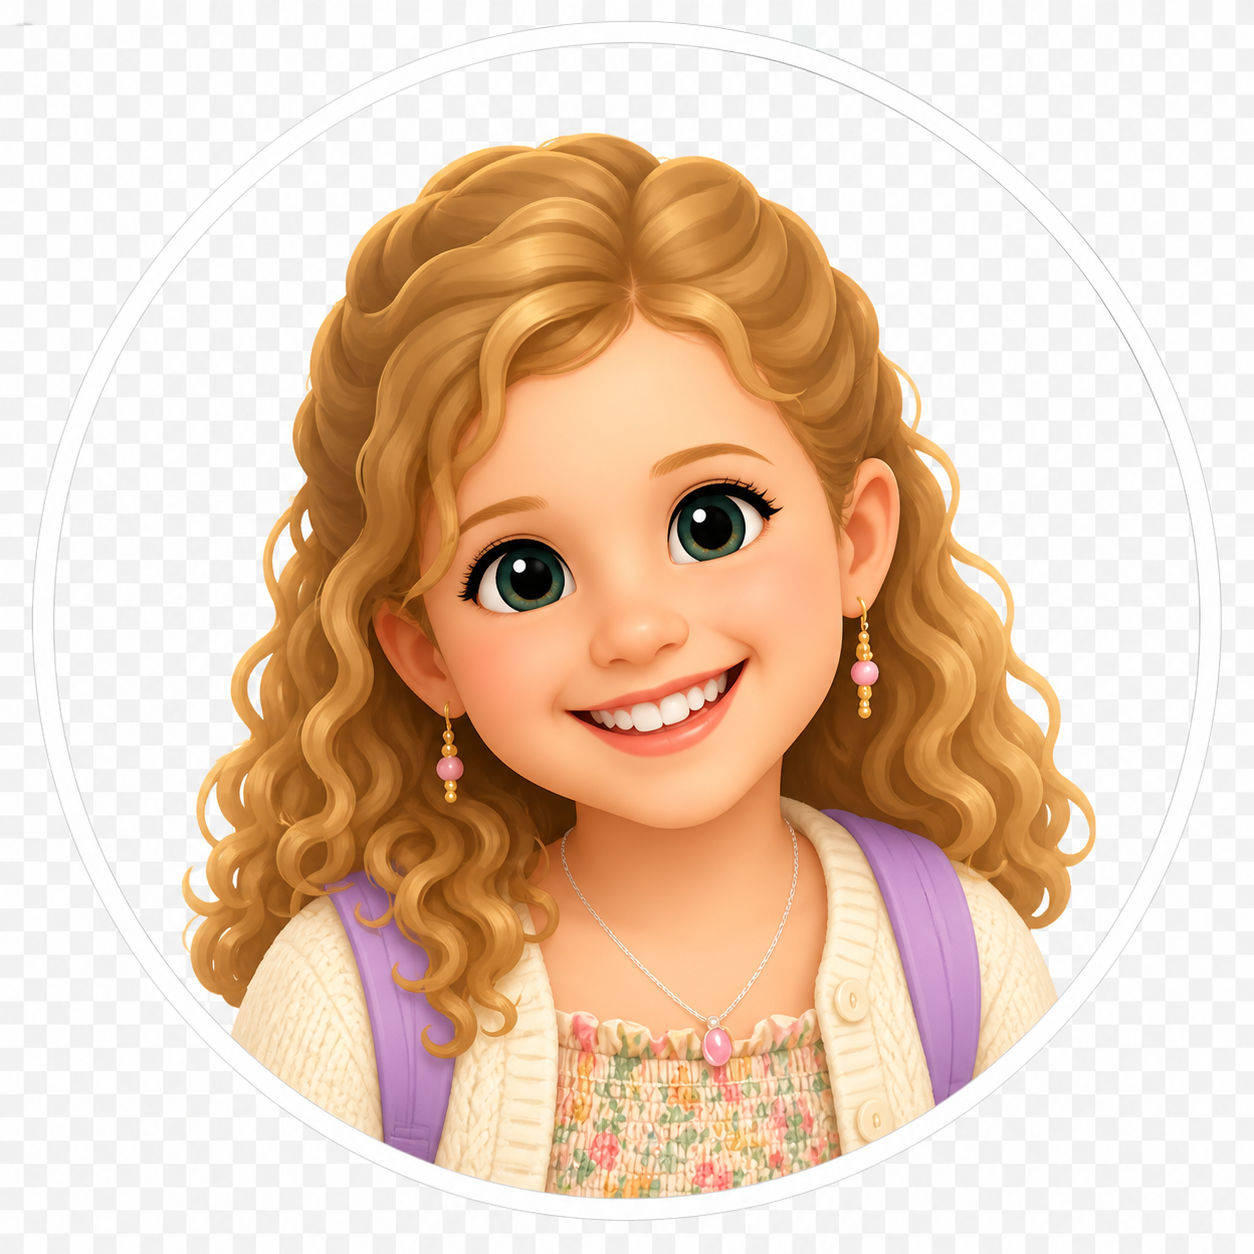
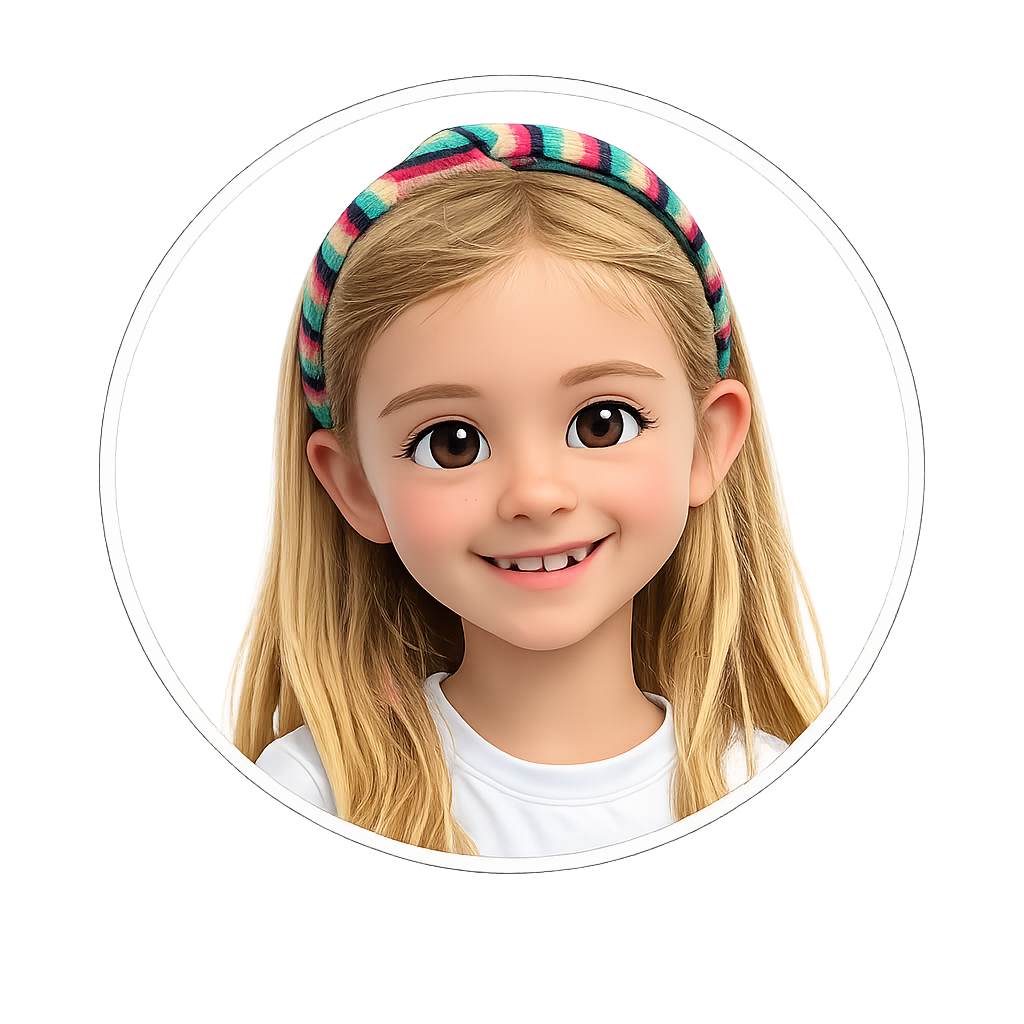
Add customer portraits, pause functionality, and portrait sizing fixes
- Wire up portraits for Dad, Mom, Ivy, Lily, Liv, Nana Peggy (new images)
- Fix buildCustomerQueue dropping the img property (portraits weren't showing)
- Fix portrait display: object-fit cover + center 20% handles mixed aspect ratios
- Add Esc to pause/resume: freezes patience timers and offsets WPM clock

diff --git a/js/gameplay.js b/js/gameplay.js
@@ -46,6 +46,7 @@ var Gameplay = (function () {
   var session = null;
   var patienceIntervals = {};
   var onShiftEnd = null;
+  var paused = false;
 
   function getSession() { return session; }
 
@@ -61,7 +62,7 @@ var Gameplay = (function () {
     var queue = [];
     for (var i = 0; i < count; i++) {
       var c = pickRandom(allCustomers);
-      queue.push({ name: c.name, emoji: c.emoji, id: 'cust_' + i });
+      queue.push({ name: c.name, emoji: c.emoji, img: c.img || null, id: 'cust_' + i });
     }
     return queue;
   }
@@ -102,12 +103,40 @@ var Gameplay = (function () {
 
     Keyboard.render(state.phase, true);
 
+    paused = false;
     document.removeEventListener('keydown', _onKey);
     document.addEventListener('keydown', _onKey);
   }
 
+  function _pause() {
+    if (!session || paused) return;
+    paused = true;
+    Object.keys(patienceIntervals).forEach(function (id) { clearInterval(patienceIntervals[id]); });
+    patienceIntervals = {};
+    session.pausedAt = Date.now();
+    var overlay = document.createElement('div');
+    overlay.id = 'pause-overlay';
+    overlay.innerHTML = '<div class="pause-box"><div class="pause-title">Paused</div><button class="btn btn-primary" id="pause-resume">Resume →</button></div>';
+    document.getElementById('screen-game').appendChild(overlay);
+    document.getElementById('pause-resume').addEventListener('click', _resume);
+  }
+
+  function _resume() {
+    if (!session || !paused) return;
+    paused = false;
+    if (session.pausedAt) {
+      session.shiftStartTime += Date.now() - session.pausedAt;
+      session.pausedAt = null;
+    }
+    session.activeOrders.forEach(function (order) { startPatienceTimer(order); });
+    var overlay = document.getElementById('pause-overlay');
+    if (overlay) overlay.remove();
+  }
+
   function _onKey(e) {
     if (!session || e.metaKey || e.ctrlKey || e.altKey) return;
+    if (e.key === 'Escape') { paused ? _resume() : _pause(); return; }
+    if (paused) return;
     if (e.key.length !== 1) return;
     e.preventDefault();
 
@@ -180,6 +209,9 @@ var Gameplay = (function () {
     document.removeEventListener('keydown', _onKey);
     Object.keys(patienceIntervals).forEach(function (id) { clearInterval(patienceIntervals[id]); });
     patienceIntervals = {};
+    paused = false;
+    var overlay = document.getElementById('pause-overlay');
+    if (overlay) overlay.remove();
 
     if (onShiftEnd) {
       onShiftEnd({
@@ -377,6 +409,9 @@ var Gameplay = (function () {
     document.removeEventListener('keydown', _onKey);
     Object.keys(patienceIntervals).forEach(function (id) { clearInterval(patienceIntervals[id]); });
     patienceIntervals = {};
+    paused = false;
+    var overlay = document.getElementById('pause-overlay');
+    if (overlay) overlay.remove();
     session = null;
   }
 

diff --git a/data/customers.js b/data/customers.js
@@ -1,17 +1,17 @@
 var CUSTOMERS = [
-  { name: 'Dad',           emoji: '🧔🏻' },
-  { name: 'Mom',           emoji: '👩🏻' },
+  { name: 'Dad',           emoji: '🧔🏻',  img: 'assets/customers/dad.PNG' },
+  { name: 'Mom',           emoji: '👩🏻',  img: 'assets/customers/mom.PNG' },
   { name: 'Rick',          emoji: '👨🏻',   img: 'assets/customers/rick.png' },
   { name: 'Zoe',           emoji: '🤓',    img: 'assets/customers/zoe.png' },
   { name: 'Mira',          emoji: '👧🏽' },
   { name: 'Hazel',         emoji: '👧🏻',   img: 'assets/customers/hazel.png' },
-  { name: 'Ivy',           emoji: '👧🏼',   img: 'assets/customers/ivy.png' },
-  { name: 'Liv',           emoji: '👧🏻' },
-  { name: 'Lily',          emoji: '🧒🏻' },
+  { name: 'Ivy',           emoji: '👧🏼',   img: 'assets/customers/ivy.PNG' },
+  { name: 'Liv',           emoji: '👧🏻',  img: 'assets/customers/liv.PNG' },
+  { name: 'Lily',          emoji: '🧒🏻',  img: 'assets/customers/lily.png' },
   { name: 'Sloan',         emoji: '👧' },
   { name: 'Papa Greg',     emoji: '👴🏻',   img: 'assets/customers/papagreg.png' },
   { name: 'Nana Karen',    emoji: '👵🏻',   img: 'assets/customers/nanakaren.png' },
-  { name: 'Nana Peggy',    emoji: '👵🏼' },
+  { name: 'Nana Peggy',    emoji: '👵🏼',  img: 'assets/customers/nanapeggy.PNG' },
   { name: 'Papa Jamie',    emoji: '👴🏻' },
   { name: 'Sue',           emoji: '👵',    img: 'assets/customers/sue.png' },
   { name: 'Aunt Katie',    emoji: '👩🏻' },

diff --git a/style.css b/style.css
@@ -666,8 +666,7 @@ body {
   width: 100%;
   height: 100%;
   object-fit: cover;
-  object-position: center top;
-  border-radius: 50%;
+  object-position: center 20%;
   display: block;
 }
 
@@ -954,6 +953,34 @@ body {
   font-size: 11px;
   color: var(--ink-soft);
   margin-left: 5px;
+}
+
+/* Pause Overlay */
+#pause-overlay {
+  position: absolute;
+  inset: 0;
+  background: rgba(42, 26, 46, 0.6);
+  display: flex;
+  align-items: center;
+  justify-content: center;
+  z-index: 100;
+}
+.pause-box {
+  background: var(--cream);
+  border: 4px solid var(--ink);
+  box-shadow: 6px 6px 0 var(--ink);
+  border-radius: 18px;
+  padding: 40px 56px;
+  text-align: center;
+  display: flex;
+  flex-direction: column;
+  gap: 20px;
+}
+.pause-title {
+  font-family: var(--display);
+  font-style: italic;
+  font-weight: 900;
+  font-size: 36px;
 }
 
 /* Footer Ribbon */
